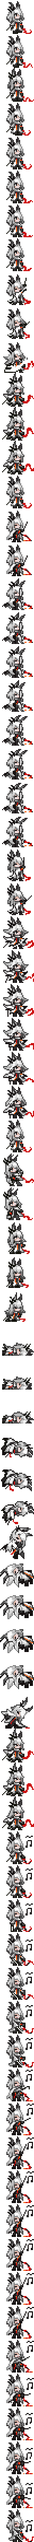
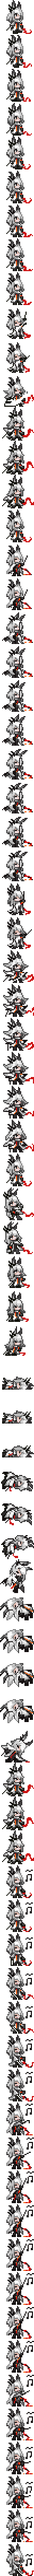
Update FrostNova's dying state

diff --git a/Content/Projectiles/Bosses/FrostNova/FrostNovaSmoke.cs b/Content/Projectiles/Bosses/FrostNova/FrostNovaSmoke.cs
@@ -3,9 +3,11 @@ using Microsoft.Xna.Framework.Graphics;
 using Terraria;
 using Terraria.ModLoader;
 using ReLogic.Content;
-using Terraria.Graphics.Shaders;
-using Terraria.ID;
+using System;
 using static Terraria.ModLoader.ModContent;
+using Terraria.ID;
+using ArknightsMod.Content.Items.Material;
+
 namespace ArknightsMod.Content.Projectiles.Bosses.FrostNova
 {
 	// Shortsword projectiles are handled in a special way with how they draw and damage things
@@ -14,16 +16,15 @@ namespace ArknightsMod.Content.Projectiles.Bosses.FrostNova
 	// Values chosen mostly correspond to Iron Shortword
 	public class FrostNovaSmoke : ModProjectile
 	{
-
 		public override void SetDefaults() {
-			Projectile.width = 42;
-			Projectile.height = 12;
+			Projectile.width = 80;
+			Projectile.height = 80;
 			Projectile.aiStyle = 0;
-			Projectile.timeLeft = 480;
+			Projectile.timeLeft = 250;
 			Projectile.penetrate = -1;
-			Projectile.scale = 0.9f;
-			Projectile.alpha = 255;
-			Projectile.hide = true;
+			Projectile.scale = 0.01f;
+			Projectile.Opacity = 0f;
+			Projectile.hide = false;
 			Projectile.hostile = false;
 			Projectile.friendly = false;
 			Projectile.ignoreWater = true;
@@ -41,11 +42,32 @@ namespace ArknightsMod.Content.Projectiles.Bosses.FrostNova
 
 		public override void AI() {
 			Projectile.ai[0] += 1;
-			if(Projectile.velocity.X > 0f) {
-				Projectile.spriteDirection = Projectile.direction = -1;
+			if (Projectile.localAI[0] == 0f) {
+				Projectile.rotation = Main.rand.NextFloat(MathHelper.TwoPi);
+				Projectile.localAI[0] = Main.rand.Next(2) * 2 -1; // 1 or -1
+				Projectile.localAI[1] = Main.rand.NextFloat(Projectile.ai[1], Projectile.ai[1] + 40);
+				Projectile.localAI[2] = Main.rand.Next(1, 5);
 			}
+			//NPC npc = Main.npc[Projectile.owner];
+			//float positionX = npc.position.X - 10;
+			//float positionY = npc.position.Y;
+			//if (Projectile.ai[1] > 0f) {
+			//	Projectile.velocity.X = Math.Max(Projectile.velocity.X - 0.1f, 0f);
+			//}
+			//else {
+			//	Projectile.velocity.X = Math.Min(Projectile.velocity.X + 0.1f, 0f);
+			//}
+			//if (Projectile.ai[2] > 0f) {
+			//	Projectile.velocity.Y = Math.Max(Projectile.velocity.Y - 0.1f, 0f);
+			//}
+			//else {
+			//	Projectile.velocity.Y = Math.Min(Projectile.velocity.Y + 0.1f, 0f);
+			//}
 
-			if (Projectile.ai[0] >= 200f)
+			//Projectile.velocity.X = GetSPV(Projectile.ai[1], Projectile.ai[1] + 20, Projectile.velocity.X, 2);
+			//Projectile.velocity.Y = GetSPV(Projectile.ai[2], Projectile.ai[2] + 20, Projectile.velocity.Y, 2);
+
+			if (Projectile.ai[0] >= 250)
 				Projectile.Kill();
 
 			FadeInAndOut();
@@ -54,38 +76,53 @@ namespace ArknightsMod.Content.Projectiles.Bosses.FrostNova
 		// Many projectiles fade in so that when they spawn they don't overlap the gun muzzle they appear from
 		public void FadeInAndOut() {
 			// If last less than 50 ticks — fade in, than more — fade out
-			//if (Projectile.ai[0] <= 50f) {
-			//	// Fade in
-			//	Projectile.alpha -= 2;
-			//	Projectile.scale += 0.2f;
-			//	// Cap alpha before timer reaches 50 ticks
-			//	if (Projectile.alpha < 0)
-			//		Projectile.alpha = 0;
-			//	if (Projectile.scale > 1.5f) {
-			//		Projectile.scale = 1.5f;
-			//	}
-			//	return;
-			//}
+			if (Projectile.ai[0] <= Projectile.localAI[1]) {
+				// Fade in
+				Projectile.Opacity += 0.1f;
+				Projectile.scale += 0.1f;
+				Projectile.rotation += 0.003f * Projectile.ai[2];
+				Projectile.velocity *= 0.95f;
+				// Cap
+				if (Projectile.Opacity > 1f)
+					Projectile.Opacity = 1f;
+				if (Projectile.scale > 1f) {
+					Projectile.scale = 1f;
+				}
+				return;
+			}
 
 			// Fade out
-			//Projectile.alpha += 10;
-			//// Cal alpha to the maximum 255(complete transparent)
-			//if (Projectile.alpha > 255)
-			//	Projectile.alpha = 255;
+			Projectile.Opacity -= 0.01f;
+			Projectile.velocity *= 0;
+			Projectile.rotation += 0.005f * Projectile.ai[2];
+			if (Projectile.Opacity < 0)
+				Projectile.Opacity = 0;
+			if (Projectile.localAI[1] <= Projectile.ai[0] && Projectile.ai[0] <= (Projectile.localAI[1] + 60f) && Projectile.ai[0] % 10 == 0 && Projectile.localAI[0] == 1) {
+				Dust dust = Main.dust[Dust.NewDust(Projectile.Left + new Vector2(-35, -25), 50, Projectile.height / 2, DustType<Dusts.Bosses.FrostNovaDeathDust>(), 0f, -2f)];
+				dust.noGravity = true;
+				dust.fadeIn = 0f;
+				dust.scale = 1.5f;
+			}
 		}
 
 		public override bool PreDraw(ref Color lightColor) {
 			Main.spriteBatch.End();
-			Main.spriteBatch.Begin(SpriteSortMode.Immediate, BlendState.Additive, SamplerState.LinearClamp, DepthStencilState.Default, RasterizerState.CullNone, null, Main.GameViewMatrix.TransformationMatrix);
+			Main.spriteBatch.Begin(SpriteSortMode.Deferred, BlendState.Additive, Main.DefaultSamplerState, DepthStencilState.None, Main.Rasterizer, null, Main.GameViewMatrix.TransformationMatrix);
 
 
-			Texture2D texture = (Texture2D) Request<Texture2D>("ArknightsMod/Assets/Effects/Smoke", AssetRequestMode.ImmediateLoad);
-			Main.spriteBatch.Draw(texture, Projectile.Center - Main.screenPosition, null, Color.White, 0f, Vector2.Zero, 1, 0, 0);
+			Texture2D texture = Request<Texture2D>("ArknightsMod/Assets/GrayScaleTexture/Smoke" + (int)Projectile.localAI[2], AssetRequestMode.ImmediateLoad).Value;
+			float opacity = Projectile.Opacity * 0.6f;
+			Color color = Color.White * opacity;
+			float scale = Projectile.scale;
+			Vector2 origin = texture.Size() * 0.5f;
+			//float rotation = 2f * (float)Math.PI * Main.rand.NextFloat();
+			Main.spriteBatch.Draw(texture, Projectile.Center - Main.screenPosition, null, color, Projectile.rotation, origin, scale, SpriteEffects.None, 0);
+
+			Main.spriteBatch.End();
+			Main.spriteBatch.Begin(SpriteSortMode.Deferred, BlendState.AlphaBlend);
 
 			return false;
 		}
 
 	}
-
-
 }

diff --git a/Content/NPCs/Enemy/Chapter6/FrostNova/FrostNova.cs b/Content/NPCs/Enemy/Chapter6/FrostNova/FrostNova.cs
@@ -14,6 +14,7 @@ using Terraria.ModLoader;
 using static Terraria.ModLoader.ModContent;
 using ArknightsMod.Content.Dusts;
 using ArknightsMod.Content.Projectiles.Bosses.FrostNova;
+using Microsoft.CodeAnalysis.Operations;
 
 namespace ArknightsMod.Content.NPCs.Enemy.Chapter6.FrostNova
 {
@@ -60,7 +61,7 @@ namespace ArknightsMod.Content.NPCs.Enemy.Chapter6.FrostNova
 		// If you choose to go the route of "wrapping properties" for NPC.ai[], make sure they don't overlap (two properties using the same variable in different ways), and that you don't accidently use NPC.ai[] directly
 
 		public override void SetStaticDefaults() {
-			Main.npcFrameCount[Type] = 75;
+			Main.npcFrameCount[Type] = 76;
 
 			// Add this in for bosses that have a summon item, requires corresponding code in the item (See MinionBossSummonItem.cs)
 			NPCID.Sets.MPAllowedEnemies[Type] = true;
@@ -88,7 +89,7 @@ namespace ArknightsMod.Content.NPCs.Enemy.Chapter6.FrostNova
 			NPC.defense = 10;
 			NPC.lifeMax = 200;
 			NPC.HitSound = SoundID.NPCHit1;
-			NPC.DeathSound = SoundID.NPCDeath1;
+			NPC.DeathSound = SoundID.DoubleJump;
 			NPC.knockBackResist = 0f;
 			NPC.lavaImmune = true;
 			NPC.noGravity = false;
@@ -123,9 +124,9 @@ namespace ArknightsMod.Content.NPCs.Enemy.Chapter6.FrostNova
 		}
 
 		public override void ModifyNPCLoot(NPCLoot npcLoot) {
-			npcLoot.Add(ItemDropRule.Common(ModContent.ItemType<IncandescentAlloyBlock>(), 3, 3, 5));
-			npcLoot.Add(ItemDropRule.Common(ModContent.ItemType<CrystallineCircuit>(), 3, 3, 5));
-			npcLoot.Add(ItemDropRule.Common(ModContent.ItemType<OptimizedDevice>(), 3, 3, 5));
+			npcLoot.Add(ItemDropRule.Common(ItemType<IncandescentAlloyBlock>(), 3, 3, 5));
+			npcLoot.Add(ItemDropRule.Common(ItemType<CrystallineCircuit>(), 3, 3, 5));
+			npcLoot.Add(ItemDropRule.Common(ItemType<OptimizedDevice>(), 3, 3, 5));
 		}
 
 		public override void OnKill() {
@@ -186,7 +187,7 @@ namespace ArknightsMod.Content.NPCs.Enemy.Chapter6.FrostNova
 
 			if (State == ActionState.Walk) {
 				startFrame = 0;
-				finalFrame = 3;
+				finalFrame = 4;
 
 				int frameSpeed = 5;
 				NPC.frameCounter += 0.5f;
@@ -201,8 +202,8 @@ namespace ArknightsMod.Content.NPCs.Enemy.Chapter6.FrostNova
 			}
 
 			if (State == ActionState.Dying) {
-				startFrame = 33;
-				finalFrame = 37;
+				startFrame = 34;
+				finalFrame = 38;
 				if (NPC.frame.Y < startFrame * frameHeight) {
 					// If we were animating the first stage frames and then switch to second stage, immediately change to the start frame of the second stage
 					NPC.frame.Y = startFrame * frameHeight;
@@ -221,8 +222,8 @@ namespace ArknightsMod.Content.NPCs.Enemy.Chapter6.FrostNova
 			}
 
 			if (State == ActionState.Revival) {
-				startFrame = 33;
-				finalFrame = 53;
+				startFrame = 34;
+				finalFrame = 54;
 				if (NPC.frame.Y < startFrame * frameHeight) {
 					// If we were animating the first stage frames and then switch to second stage, immediately change to the start frame of the second stage
 					NPC.frame.Y = startFrame * frameHeight;
@@ -321,14 +322,38 @@ namespace ArknightsMod.Content.NPCs.Enemy.Chapter6.FrostNova
 		private void Dying() {
 			Death_Timer ++;
 
-			if (Death_Timer >= 120f) {
+			if (Death_Timer == 130f) {
 				if (Main.netMode != NetmodeID.MultiplayerClient) {
-					Vector2 position = NPC.Center;
-					Projectile.NewProjectile(null, position, new Vector2(0, 0), ProjectileType<FrostNovaSmoke>(), 0, 0f);
+					//Vector2 po = NPC.Center + new Vector2(Main.rand.Next(-60, 0), Main.rand.Next(-30, 10));
+					//float positionX = NPC.Center.X - 10;
+					//float positionY = NPC.Center.Y + 0;
+					for (int i = 0; i < 3; i++) {
+						float positionX = NPC.Center.X + Main.rand.NextFloat(-20, 23) * NPC.direction;
+						float positionY = NPC.Center.Y + Main.rand.NextFloat(0, 45);
+						Vector2 position = new Vector2(positionX, positionY);
+						Projectile.NewProjectile(null, position, new Vector2(-0.5f, -0.3f), ProjectileType<FrostNovaSmoke>(), 0, 0f, -1, 0, 90, 0);
+					}
+					for (int i = 0; i < 4; i++) {
+						float positionX = NPC.Center.X + Main.rand.NextFloat(-34, 16) * NPC.direction;
+						float positionY = NPC.Center.Y + Main.rand.NextFloat(-10, 34);
+						Vector2 position = new Vector2(positionX, positionY);
+						Projectile.NewProjectile(null, position, new Vector2(-1.5f, -0.5f), ProjectileType<FrostNovaSmoke>(), 0, 0f, -1, 0, 80, -1);
+					}
+					for (int i = 0; i < 4; i++) {
+						float positionX = NPC.Center.X + Main.rand.NextFloat(-20, 23) * NPC.direction;
+						float positionY = NPC.Center.Y + Main.rand.NextFloat(-29, 16);
+						Vector2 position = new Vector2(positionX, positionY);
+						Projectile.NewProjectile(null, position, new Vector2(2f, 0.7f), ProjectileType<FrostNovaSmoke>(), 0, 0f, -1, 0, 85, 1);
+					}
+					//for (int i = 0; i < 5; i++) {
+					//	float velocityX = Main.rand.NextFloat();
+					//	float velocityY = Main.rand.NextFloat();
+					//	Projectile.NewProjectile(null, position, new Vector2(-velocityX, -velocityY), ProjectileType<FrostNovaSmoke>(), 0, 0f, -1, 0, -1, -1);
+					//}
 				}
 			}
 
-			if (Death_Timer >= 180f) {
+			if (Death_Timer >= 135f) {
 				NPC.life = 0;
 				NPC.HitEffect(0, 0);
 				NPC.checkDead(); // This will trigger ModNPC.CheckDead the second time, causing the real death.

diff --git a/Content/Dusts/Bosses/FrostNovaDeathDust.cs b/Content/Dusts/Bosses/FrostNovaDeathDust.cs
@@ -1,0 +1,29 @@
+using Microsoft.Xna.Framework;
+using Terraria;
+using Terraria.ModLoader;
+
+namespace ArknightsMod.Content.Dusts.Bosses
+{
+	public class FrostNovaDeathDust : ModDust
+	{
+		public override void OnSpawn(Dust dust) {
+			//dust.velocity *= 0.4f; // Multiply the dust's start velocity by 0.4, slowing it down
+			dust.noGravity = true; // Makes the dust have no gravity.
+			dust.noLight = true; // Makes the dust emit no light.
+			dust.scale *= 1f;
+			dust.frame = new Rectangle(0, Main.rand.Next(3) * 14, 14, 14);
+			dust.rotation = Main.rand.NextFloat(MathHelper.TwoPi);
+		}
+
+		public override bool Update(Dust dust) { // Calls every frame the dust is active
+			dust.scale *= 0.99f;
+			dust.velocity *= 0.99f;
+			dust.position += dust.velocity;
+			if (dust.scale < 0.1f) {
+				dust.active = false;
+			}
+
+			return false; // Return false to prevent vanilla behavior.
+		}
+	}
+}

diff --git a/Content/Items/Summon/Spicycandy.cs b/Content/Items/Summon/Spicycandy.cs
@@ -22,7 +22,7 @@ namespace ArknightsMod.Content.Items.Summon
 			Item.useAnimation = 5;
 			Item.useTime = 5;
 			Item.maxStack = 1;
-			Item.consumable = true;
+			Item.consumable = false;
 			Item.value = Item.buyPrice(0, 1);
 			Item.width = 11;
 			Item.height = 11;
